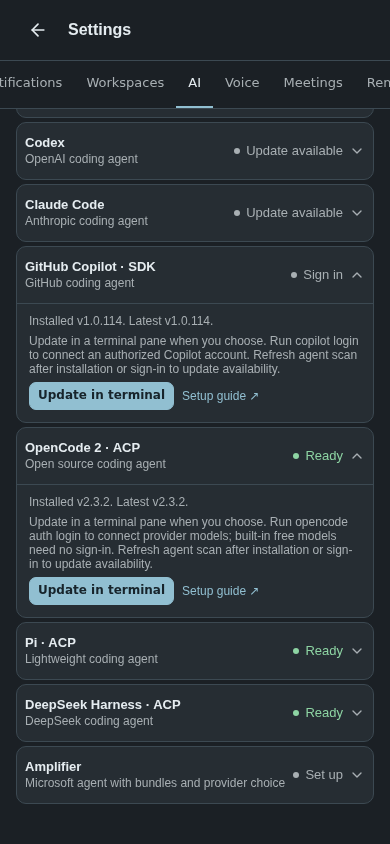
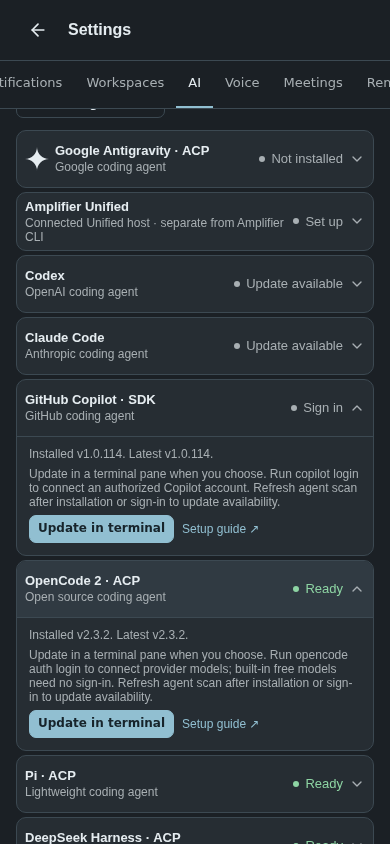
Address OpenCode scan and Copilot setup review notes

Changed region(s): [[0.0615, 0.154, 0.9231, 0.955], [0.0615, 0.9858, 0.4615, 1.0], [0.4615, 0.154, 0.5538, 0.1848]]

diff --git a/web/src/components/settings-surface.ts b/web/src/components/settings-surface.ts
@@ -1498,11 +1498,12 @@ export class MuxSettingsSurface extends LitElement {
     const version = this._agentVersions.get(agent.harness);
     const known = version !== undefined;
     const installed = version?.installed ?? false;
+    const ready = this._readyAgents?.has(agent.harness) ?? false;
     return html`<details class="agent-card">
       <summary><span class="agent-identity"><span class="agent-title">${agent.name}</span><span class="agent-description">${agent.description}</span></span>${this._agentStatus(agent.harness)}<span class="agent-chevron" aria-hidden="true">${icon(ChevronDown,{size:16})}</span></summary>
       <div class="agent-body">
         <p>${!known ? 'Checking installation…' : installed ? `Installed ${version.version ? `v${version.version}` : '(version unavailable)'}.` : agent.harness === 'opencode' && version?.version?.startsWith('1.') ? `OpenCode v${version.version} found. Install OpenCode 2 to use chat.` : 'Not installed on this computer.'}${version?.latestVersion ? ` Latest v${version.latestVersion}.` : ''}</p>
-        <p>${installed ? 'Update in a terminal pane when you choose.' : `Install ${agent.name} in a terminal pane.`} ${agent.harness === 'copilot' ? 'Run copilot login to connect an authorized Copilot account.' : agent.harness === 'opencode' ? 'Run opencode auth login to connect provider models; built-in free models need no sign-in.' : 'The agent will guide you through sign-in.'} Refresh agent scan after installation or sign-in to update availability.</p>
+        <p>${installed ? 'Update in a terminal pane when you choose.' : `Install ${agent.name} in a terminal pane.`} ${agent.harness === 'copilot' ? ready ? '' : 'Run copilot login to connect an authorized Copilot account.' : agent.harness === 'opencode' ? 'Run opencode auth login to connect provider models; built-in free models need no sign-in.' : 'The agent will guide you through sign-in.'} ${ready && agent.harness === 'copilot' ? '' : 'Refresh agent scan after installation or sign-in to update availability.'}</p>
         <div class="agent-card-actions"><mux-ui-button size="small" variant="primary" ?disabled=${!known} @click=${() => this._runAgentCommand(agent, installed ? 'update' : 'install')}>${installed ? 'Update in terminal' : 'Install'}</mux-ui-button><a href=${agent.docs} target="_blank" rel="noopener noreferrer">Setup guide ↗</a></div>
       </div>
     </details>`;

diff --git a/internal/server/sdk_chat.go b/internal/server/sdk_chat.go
@@ -663,9 +663,12 @@ func (h *sdkChatHost) ensure(harness string) error {
 	// absent from the service's PATH even when we can discover the command.
 	pathDirs := make([]string, 0, 2)
 	for _, name := range []string{"opencode", "uv"} {
-		path, err := sdkExecutablePath(name)
+		var path string
+		var err error
 		if name == "opencode" {
-			path, err = sdkOpenCodeV2Executable()
+			path, _, err = sdkOpenCodeV2Executable(context.Background())
+		} else {
+			path, err = sdkExecutablePath(name)
 		}
 		if err == nil {
 			pathDirs = append(pathDirs, filepath.Dir(path))
@@ -1285,7 +1288,7 @@ func sdkACPExecutable(harness string) string {
 	return ""
 }
 
-func sdkOpenCodeV2Executable() (string, error) {
+func sdkOpenCodeV2Executable(ctx context.Context) (string, string, error) {
 	home, _ := os.UserHomeDir()
 	candidates := []string{os.Getenv("MUXTERM_ACP_OPENCODE_COMMAND")}
 	if home != "" {
@@ -1298,14 +1301,15 @@ func sdkOpenCodeV2Executable() (string, error) {
 		if path == "" {
 			continue
 		}
-		ctx, cancel := context.WithTimeout(context.Background(), 3*time.Second)
-		output, err := exec.CommandContext(ctx, path, "--version").Output()
+		versionCtx, cancel := context.WithTimeout(ctx, 3*time.Second)
+		output, err := exec.CommandContext(versionCtx, path, "--version").Output()
 		cancel()
-		if err == nil && strings.HasPrefix(agentSemver.FindString(string(output)), "2.") {
-			return path, nil
+		version := agentSemver.FindString(string(output))
+		if err == nil && strings.HasPrefix(version, "2.") {
+			return path, version, nil
 		}
 	}
-	return "", errors.New("OpenCode 2 CLI is unavailable; install it from https://opencode.ai/docs/ and refresh agent scan")
+	return "", "", errors.New("OpenCode 2 CLI is unavailable; install it from https://opencode.ai/docs/ and refresh agent scan")
 }
 func sdkContains(values []string, value string) bool {
 	for _, item := range values {
@@ -1647,7 +1651,7 @@ func (s *Server) handleSDKChatStartOptions(w http.ResponseWriter, r *http.Reques
 			availableConfigured = append(availableConfigured, harness)
 			continue
 		}
-		if _, err := sdkOpenCodeV2Executable(); err == nil {
+		if _, _, err := sdkOpenCodeV2Executable(r.Context()); err == nil {
 			availableConfigured = append(availableConfigured, harness)
 		}
 	}
@@ -1662,9 +1666,7 @@ func (s *Server) handleSDKChatStartOptions(w http.ResponseWriter, r *http.Reques
 		}
 	}
 	if sdkReady {
-		authCtx, authCancel := context.WithTimeout(r.Context(), 5*time.Second)
-		result, err := s.sdkChats.call(authCtx, "copilot-auth-status", map[string]any{})
-		authCancel()
+		result, err := s.sdkChats.call(ctx, "copilot-auth-status", map[string]any{})
 		if err == nil {
 			var auth struct {
 				Authenticated bool `json:"authenticated"`
@@ -1977,7 +1979,7 @@ func (s *Server) handleSDKChats(w http.ResponseWriter, r *http.Request) {
 	// writing a chat record or creating a worktree.
 	if isSDKACPHarness(req.Harness) || req.Harness == "opencode" {
 		if req.Harness == "opencode" {
-			if _, err := sdkOpenCodeV2Executable(); err != nil {
+			if _, _, err := sdkOpenCodeV2Executable(r.Context()); err != nil {
 				http.Error(w, err.Error(), 503)
 				return
 			}

diff --git a/internal/server/agent_versions.go b/internal/server/agent_versions.go
@@ -93,8 +93,8 @@ func inspectCodingAgent(ctx context.Context, harness, executable, npmPackage str
 	status := codingAgentVersion{Harness: harness, CheckedAt: time.Now().UTC().Format(time.RFC3339)}
 	path, err := sdkExecutablePath(executable)
 	if harness == "opencode" {
-		if v2, v2Err := sdkOpenCodeV2Executable(); v2Err == nil {
-			path, err = v2, nil
+		if v2Path, v2Version, v2Err := sdkOpenCodeV2Executable(ctx); v2Err == nil {
+			path, status.Version, err = v2Path, v2Version, nil
 		}
 	}
 	if err == nil {
@@ -106,13 +106,15 @@ func inspectCodingAgent(ctx context.Context, harness, executable, npmPackage str
 				status.InstallMethod = "npm"
 			}
 		}
-		commandCtx, cancel := context.WithTimeout(ctx, 4*time.Second)
-		cmd := exec.CommandContext(commandCtx, path, "--version")
-		cmd.Dir = os.TempDir()
-		output, err := cmd.CombinedOutput()
-		cancel()
-		if err == nil {
-			status.Version = agentSemver.FindString(string(output))
+		if status.Version == "" {
+			commandCtx, cancel := context.WithTimeout(ctx, 4*time.Second)
+			cmd := exec.CommandContext(commandCtx, path, "--version")
+			cmd.Dir = os.TempDir()
+			output, err := cmd.CombinedOutput()
+			cancel()
+			if err == nil {
+				status.Version = agentSemver.FindString(string(output))
+			}
 		}
 		if harness == "opencode" && !strings.HasPrefix(status.Version, "2.") {
 			status.Installed = false
